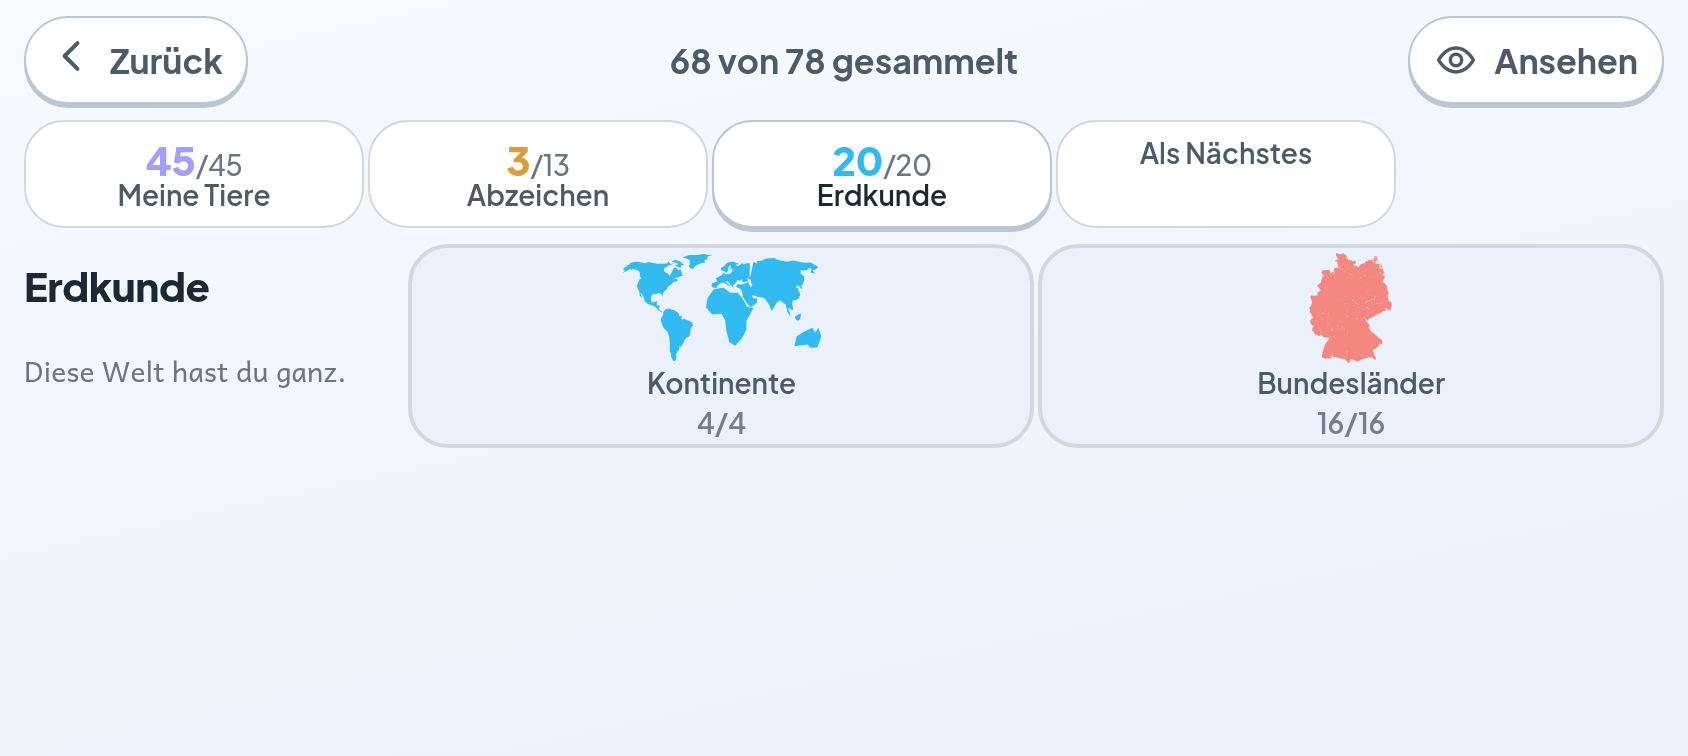
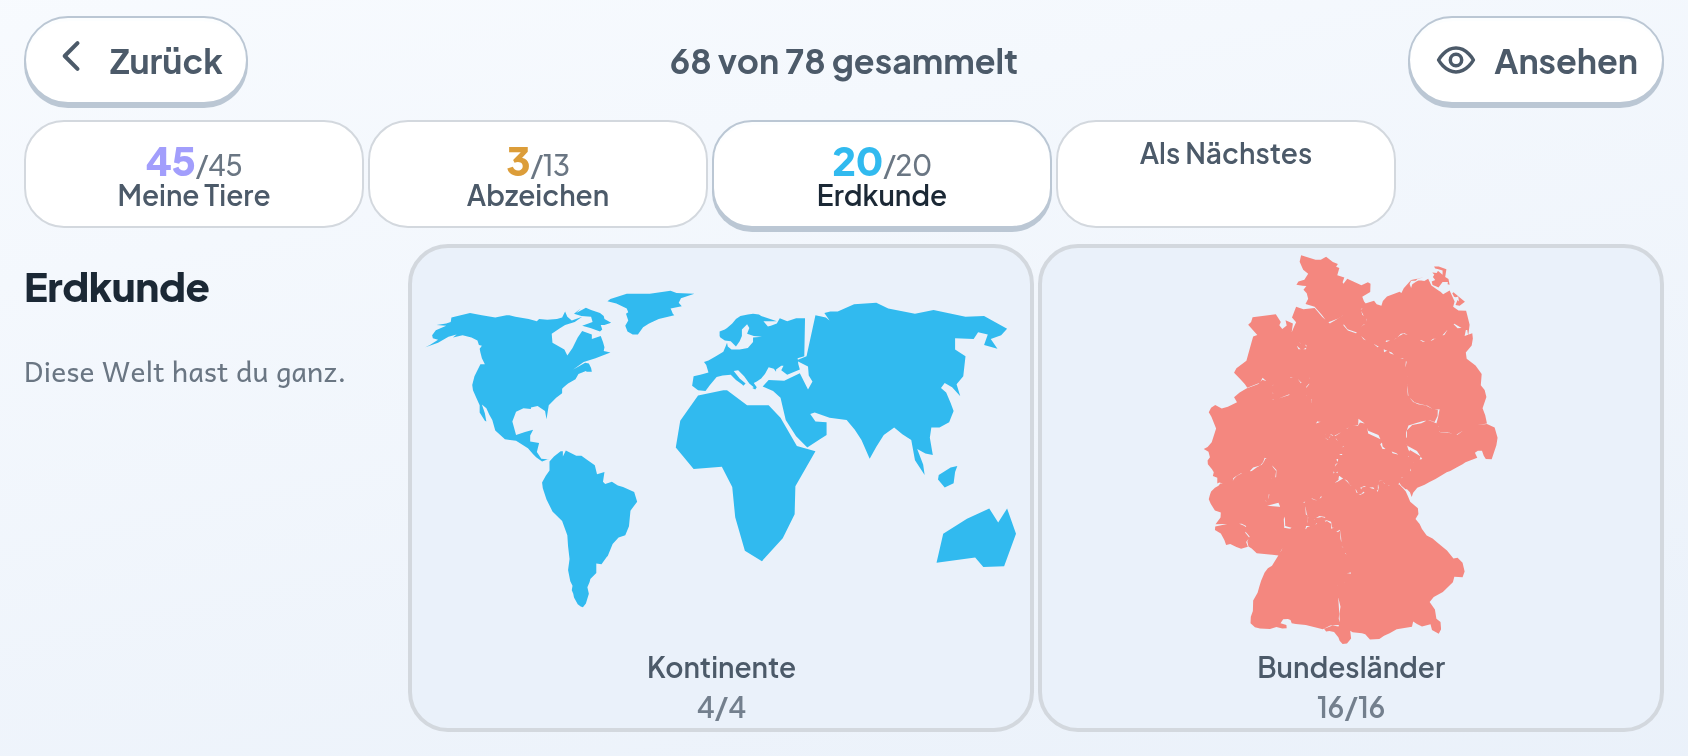
N12: Das Buch - die Sammlung fuellt ihre Seite
Gemessen vor der Runde, 844 x 390, zehn Kapitelseiten:

  Abzeichen 81 · Erdkunde 46 · 95 · 95 · Rechnen 95
  Schreiben 53 · 56 · 45 · Englisch 37 · Naechstes 42

Die drei bei 95 waren die Albumkarte und die Rechentafel - genau die
beiden, die in einer frueheren Runde „nimm die Hoehe deiner Spalte"
bekommen haben. Alles andere war ein Raster mit fester Stueckgroesse,
oben ausgerichtet: eine kurze Reihe am Kopf der Seite, darunter die
halbe Seite leer. Das Soll kam damit nicht von mir, sondern von den zwei
Seiten, die es schon konnten (Regel 3).

Jetzt bekommen Aufkleberwand und Raumgitter dieselbe Rechnung:

  Abzeichen 81 · Erdkunde 95 · 95 · 95 · Rechnen 95
  Schreiben 95 · 95 · 95 · Englisch 95 · Naechstes 95

UND DAS BILD WAECHST MIT, nicht nur der Kasten. Das ist der Unterschied,
an dem diese Runde zweimal gescheitert ist:

  * Mit einem Boden von 132 Punkten je Reihe stieg die Englischseite auf
    106 % - die zweite Reihe hing unten heraus. Eine Kapitelseite soll
    PASSEN; das Buch blaettert, es rollt nicht. `1fr` teilt die Hoehe
    unter den Reihen auf, die es wirklich gibt.
  * Danach fuellten zwei grosse Zellen die Erdkunde-Uebersicht, und
    darin klebte dieselbe briefmarkengrosse Weltkarte wie vorher. Die
    Fuellung meldete 95 %, und die Seite war leerer als je zuvor. Die
    Regel dort sagt seit B14, der Umriss solle „mit dem Platz wachsen" -
    und setzte ihn auf 72 Punkte fest. Die Begruendung war richtig, die
    Zeile hat sie nie eingeloest.
[…]

Changed region(s): [[0.2464, 0.3347, 0.9858, 0.9735]]

diff --git a/prototyp/vorlage.html b/prototyp/vorlage.html
@@ -2904,6 +2904,56 @@ body[data-zieht] .lupenknoepfe{pointer-events:none}
   .buchraster > .rechentafel{align-items:stretch;align-content:stretch}
   .buchraster > .rechentafel .tafelfeld{height:100%;min-height:0}
   .buchraster > .rechentafel .tafelfeld svg{height:100%;width:auto;min-height:0}
+  /* UND DIE SAMMLUNG FUELLT IHRE SEITE AUCH (N12).
+   *
+   * Gemessen VOR dieser Runde, 844 x 390, zehn Kapitelseiten:
+   *   Abzeichen 81 · Erdkunde 46 · Erdkunde 95 · Erdkunde 95 ·
+   *   Rechnen 95 · Schreiben 53 · 56 · 45 · Englisch 37 · Naechstes 42
+   *
+   * Die drei bei 95 sind die Albumkarte und die Rechentafel - genau die
+   * beiden, die drei Zeilen weiter oben „nimm die Hoehe deiner Spalte"
+   * bekommen haben. Alles andere ist ein Raster mit fester
+   * Stueckgroesse, oben ausgerichtet: eine kurze Reihe am Kopf der
+   * Seite, darunter nichts. Das Soll kommt hier also nicht aus mir,
+   * sondern aus den zwei Seiten, die es schon koennen (Regel 3).
+   *
+   * Und es waechst das BILD, nicht der Kasten: `flex` an das SVG, keine
+   * zweite Hoehenangabe an den Aufkleber. Ein hoeherer leerer Kasten
+   * erfuellt jede Fuellungszahl und sagt nichts - dieselbe Falle, in die
+   * der erste Anlauf der Albumkarte gelaufen ist („Groesser ist nicht
+   * voller"), und dieselbe, vor der die Notiz zu G15c warnt.
+   *
+   * KEIN Boden an `grid-auto-rows`, und das ist gemessen: mit einem von
+   * 132 Punkten stieg die Englischseite von 37 auf 106 % - die zweite
+   * Reihe hing unten heraus, und der Rauchtest hat es gemeldet („auf 1
+   * von 6 Kapitelseiten steht nicht alles im Bild"). Eine Kapitelseite
+   * soll PASSEN; das Buch blaettert, es rollt nicht. `1fr` teilt die
+   * Hoehe unter den Reihen auf, die es wirklich gibt - damit fuellt sie
+   * jede Seite und kann keine ueberlaufen.
+   * `min-height` und nicht `height`: waechst ein Kapitel doch einmal
+   * ueber die Seite hinaus, bleibt das Rollen als Auffanglinie. Und ob
+   * die Aufkleber dabei zu klein werden, sagt kein Geschmack, sondern
+   * `beruehrung`: unter 44 Punkten ist ein Griff keiner mehr. */
+  .buchraster > .kleber,
+  .buchraster > .raumgitter{min-height:100%;align-content:stretch;
+    grid-auto-rows:1fr}
+  .buchraster > .kleber .aufkleber,
+  .buchraster > .raumgitter .raumzelle{min-height:0}
+  /* `flex:1 1 0` und BREITE, nicht `flex:1 1 auto`: ein SVG mit
+     Grundlage „auto" bringt seine eigene Hoehe mit, und die kommt aus
+     dem Seitenverhaeltnis mal der vollen Breite - beim Umriss darunter
+     ist es damit ueber den Kasten hinausgeschossen und stand
+     angeschnitten da. Mit Grundlage 0 rechnet der Flexkasten die Hoehe
+     aus dem freien Platz, die Breite steht daneben, und das Bild passt
+     sich in beides ein (`preserveAspectRatio`, Voreinstellung). Dieselbe
+     Rechnung wie an der Albumkarte, nur andersherum aufgeschrieben. */
+  .buchraster > .kleber .aufkleber svg{width:100%;height:auto;
+    flex:1 1 0;min-height:0}
+  /* Der Umriss der Ebenenzelle waechst AUCH mit - die Regel dafuer steht
+     aber weiter unten, direkt neben der festen Groesse, die sie
+     ueberschreibt. Hier stuende sie mit derselben Kennzahl und weiter
+     oben, also wirkungslos: gebaut, ausgeliefert, ohne Wirkung. Genau
+     das ist bei N10 dem Huepfen passiert. */
 }
 .gruppe{font-family:var(--f-ui);font-size:var(--s1);font-weight:800;margin:var(--r6) 0 var(--r3);
   letter-spacing:-.01em}
@@ -3928,6 +3978,22 @@ code{font-family:ui-monospace,monospace;font-size:.9em;background:var(--linie);
 .rollen.buch .abz .fehlt{padding:0 var(--eng)}
 @media (min-aspect-ratio:8/5){
   .buchseite{column-gap:var(--weit);row-gap:0}
+  /* UND JETZT WAECHST DER UMRISS WIRKLICH (N12).
+   *
+   * Die Regel darueber sagt seit B14, der Umriss solle „mit dem Platz
+   * wachsen" - und setzt ihn auf 72 Punkte fest. Die Begruendung war
+   * richtig, die Zeile hat sie nie eingeloest: gemessen stand die
+   * Erdkunde-Uebersicht bei 46 % ihrer Hoehe, und nachdem die Zellen
+   * die Seite fuellten, standen zwei grosse leere Kaesten da, in denen
+   * dieselben 72 Punkte Weltkarte klebten. „Groesser ist nicht voller" -
+   * die Notiz an der Albumkarte hat es vorhergesagt.
+   *
+   * Nur im breiten Format: dort hat die Zelle eine gerechnete Hoehe.
+   * Hochkant hat sie keine, und `flex:1` an einem SVG ohne Hoehe ist
+   * eine Einladung an den Browser, sich etwas auszudenken. */
+  .buchraster > .raumgitter .ebenenzelle .silhouette,
+  .buchraster > .raumgitter .raumzelle .raumzeichen{width:100%;height:auto;
+    min-height:0;flex:1 1 0}
 }
 </style></head>
 <body><!-- Der Glanz der Aufkleber (Q28). EIN Verlauf fuer alle: eine
